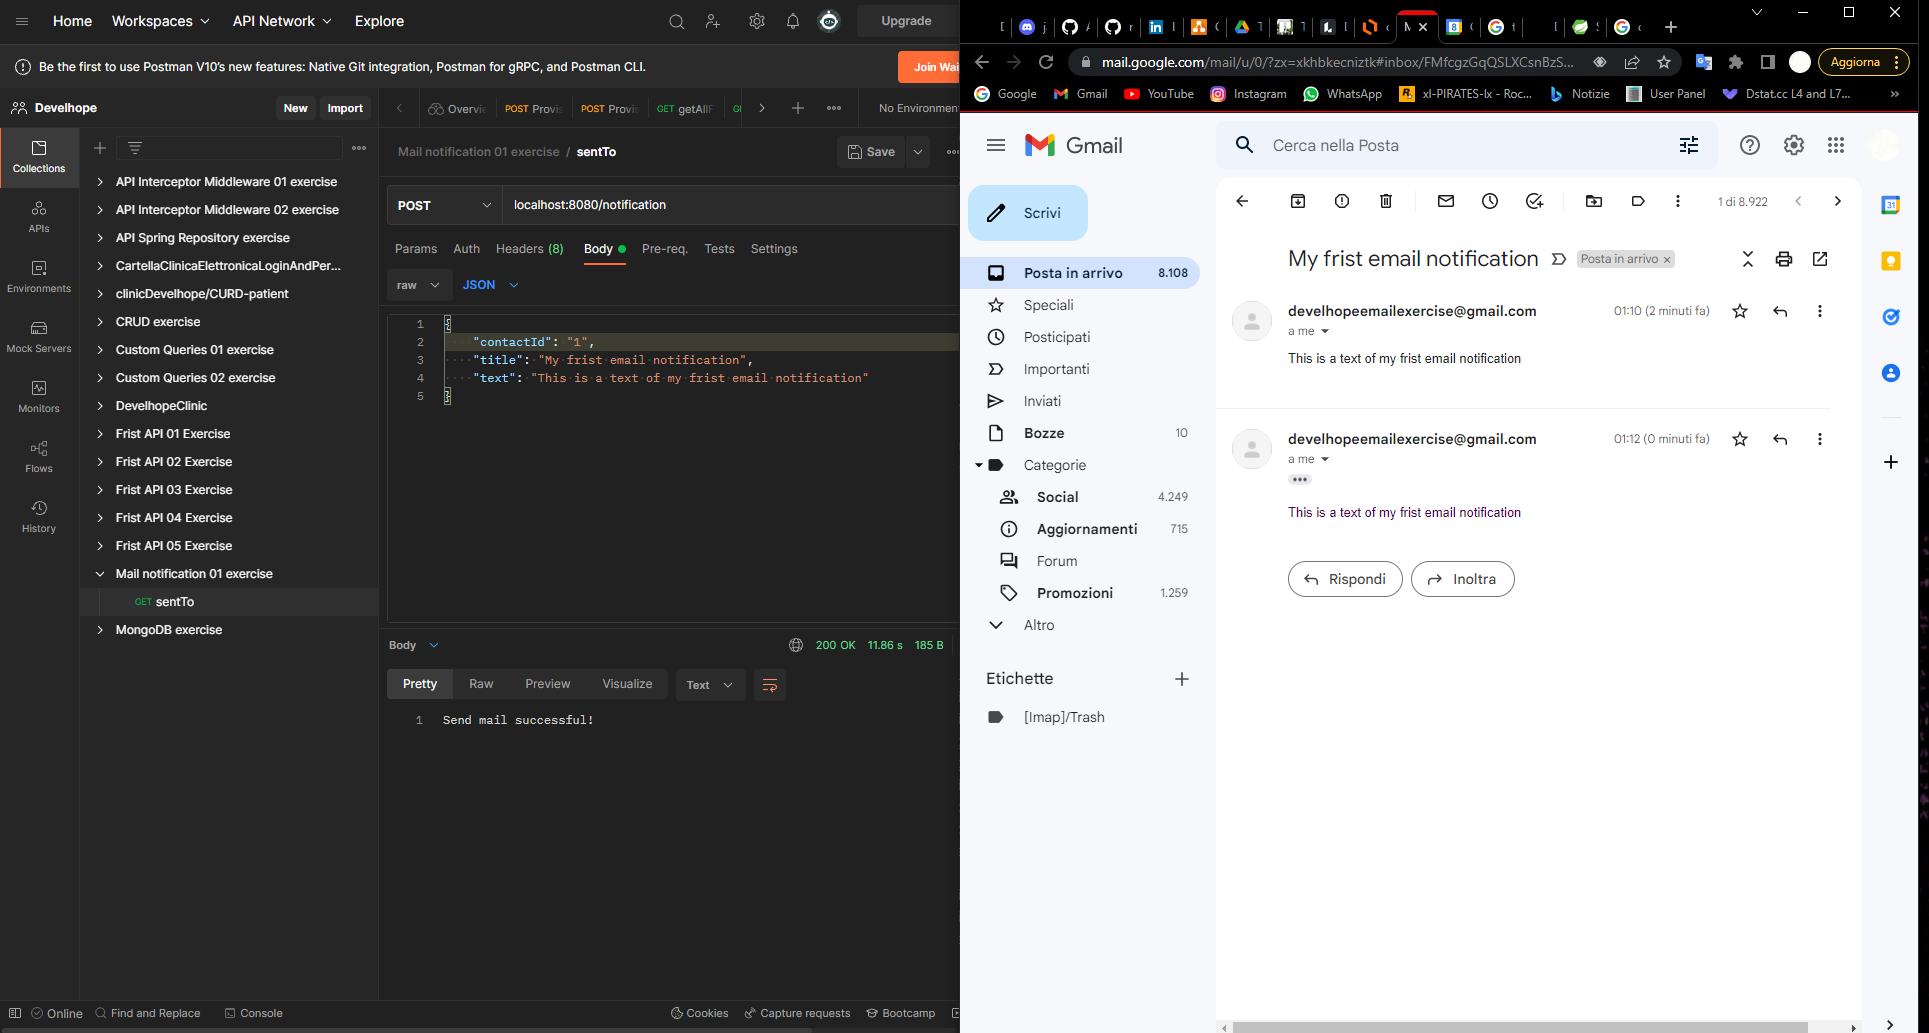
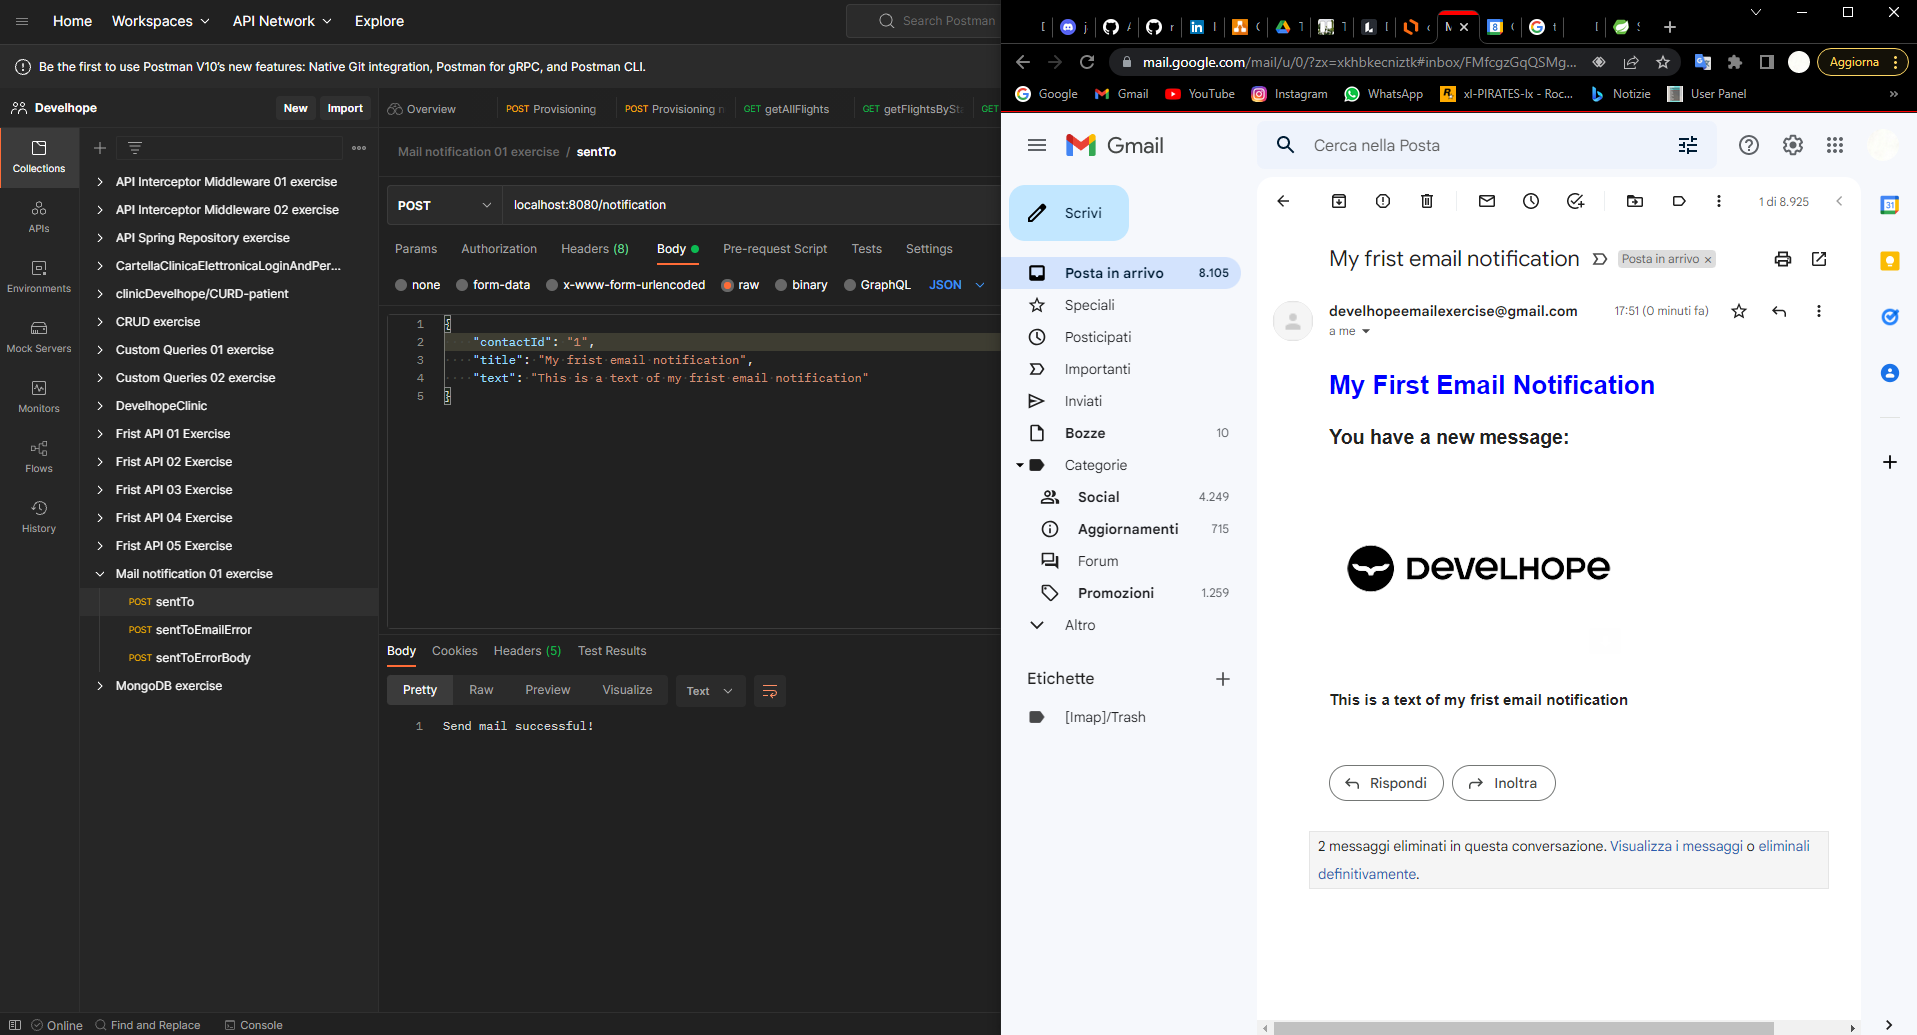
First commit

diff --git a/src/main/java/co/develhope/mail01exercise/notifications/services/NotificationService.java b/src/main/java/co/develhope/mail01exercise/notifications/services/NotificationService.java
@@ -1,9 +1,12 @@
 package co.develhope.mail01exercise.notifications.services;
 
 import org.springframework.beans.factory.annotation.Autowired;
-import org.springframework.mail.SimpleMailMessage;
 import org.springframework.mail.javamail.JavaMailSender;
+import org.springframework.mail.javamail.MimeMessageHelper;
 import org.springframework.stereotype.Service;
+
+import javax.mail.MessagingException;
+import javax.mail.internet.MimeMessage;
 
 @Service
 public class NotificationService {
@@ -11,13 +14,18 @@ public class NotificationService {
     @Autowired
     private JavaMailSender javaMailSender;
 
-    public void sendTo(String email, String title, String text){
-        SimpleMailMessage message = new SimpleMailMessage();
+    public void sendTo(String email, String title, String text) throws MessagingException {
+        MimeMessage mimeMessage = javaMailSender.createMimeMessage();
+        MimeMessageHelper message = new MimeMessageHelper(mimeMessage, "utf-8");
+        String htmlMsg = "<h1 style=\"color:blue;\">My First Email Notification</h1>" +
+                "<h2>You have a new message: </h2>" +
+                "<img src='https://www.mirandola.net/wp-content/uploads/2021/03/logo-develhope-mirandola-comunicazione.png' alt='Alternative text'>" +
+                "<h3>" + text + "</h3>";
         message.setTo(email);
         message.setFrom("develhopeemailexercise@gmail.com");
         message.setReplyTo("develhopeemailexercise@gmail.com");
         message.setSubject(title);
-        message.setText(text);
-        javaMailSender.send(message);
+        message.setText(htmlMsg, true);
+        javaMailSender.send(mimeMessage);
     }
 }

diff --git a/src/main/java/co/develhope/mail01exercise/Mail02ExerciseApplication.java b/src/main/java/co/develhope/mail01exercise/Mail02ExerciseApplication.java
@@ -4,10 +4,10 @@ import org.springframework.boot.SpringApplication;
 import org.springframework.boot.autoconfigure.SpringBootApplication;
 
 @SpringBootApplication
-public class Mail01ExerciseApplication {
+public class Mail02ExerciseApplication {
 
 	public static void main(String[] args) {
-		SpringApplication.run(Mail01ExerciseApplication.class, args);
+		SpringApplication.run(Mail02ExerciseApplication.class, args);
 	}
 
 }

diff --git a/README.md b/README.md
@@ -1,36 +1,15 @@
-# Exercise - Spring Boot - Email 1
-* create a custom Gmail account using a new email and a new password (do not publish them on GitHub or other public places!)
-* in order to use Gmail's SMTP you have to allow `Less secure apps` (you can find the option in the new Google account security settings)
-  * see following picture:
+# Exercise - Spring Boot - Email 2
+* replicate the same project structure of the exercise `Spring Boot - Email 1`
+* instead of sending a basic email, send an email with an HTML message:
+  * use `MimeMessage` and the HTML tags `<h1>`, `<h2>`, `<img>` and `<h3>`
+  * insert an image from the web you like
+  * inside the `<h3>` tag, write the `text` coming from the `GET` request
+* the output is something similar to the following one:
 
-![](less-secure-apps-gmail.PNG)
+![](output.PNG)
 
-* if Gmail is not allowing you to have `Less secure apps`, you can use a service like [SendGrid](https://sendgrid.com/)
-* write a Spring Boot application with the necessary dependencies that:
-  * has all the necessary email SMTP configuration in `application.yml`
-  * defines an entity `Student` with the following string properties:
-    * `id`
-    * `name`
-    * `surname`
-    * `email`
-  * defines a `StudentService` that has:
-    * a list of 4 `Student`s, where the first one is you (with your email)
-    * a method `getStudentById` that returns the `Student` if it's present in the list
-  * exposes under the mapping `notification` an endpoint for sending an email to a specific `Student`
-    * use a `try/catch` in the dedicated controller
-    * if the id of the `Student` is already in the list, then send the email to that user
-    * if not, reply with a `BAD_REQUEST` message
-    * if the request is not correct, reply with an error 500 HTTP response
-  * defines a `NotificationDTO` that consists of the following strings:
-    * `contactId`
-    * `title`
-    * `text`
 * test the endpoint with `Postman`:
   * send email to a user that is present in the list (you!)
   * try to send email to a user that is not present in the list
   * try to send email with a wrong payload
-* you should receive an email like this:
-
-![](email-received.PNG)
-
-* **note for reviewers**: view `Email1.postman_collection.json` in the root folder for all the `Postman` calls
+* **note for reviewers**: view `Email2.postman_collection.json` in the root folder for all the `Postman` calls
